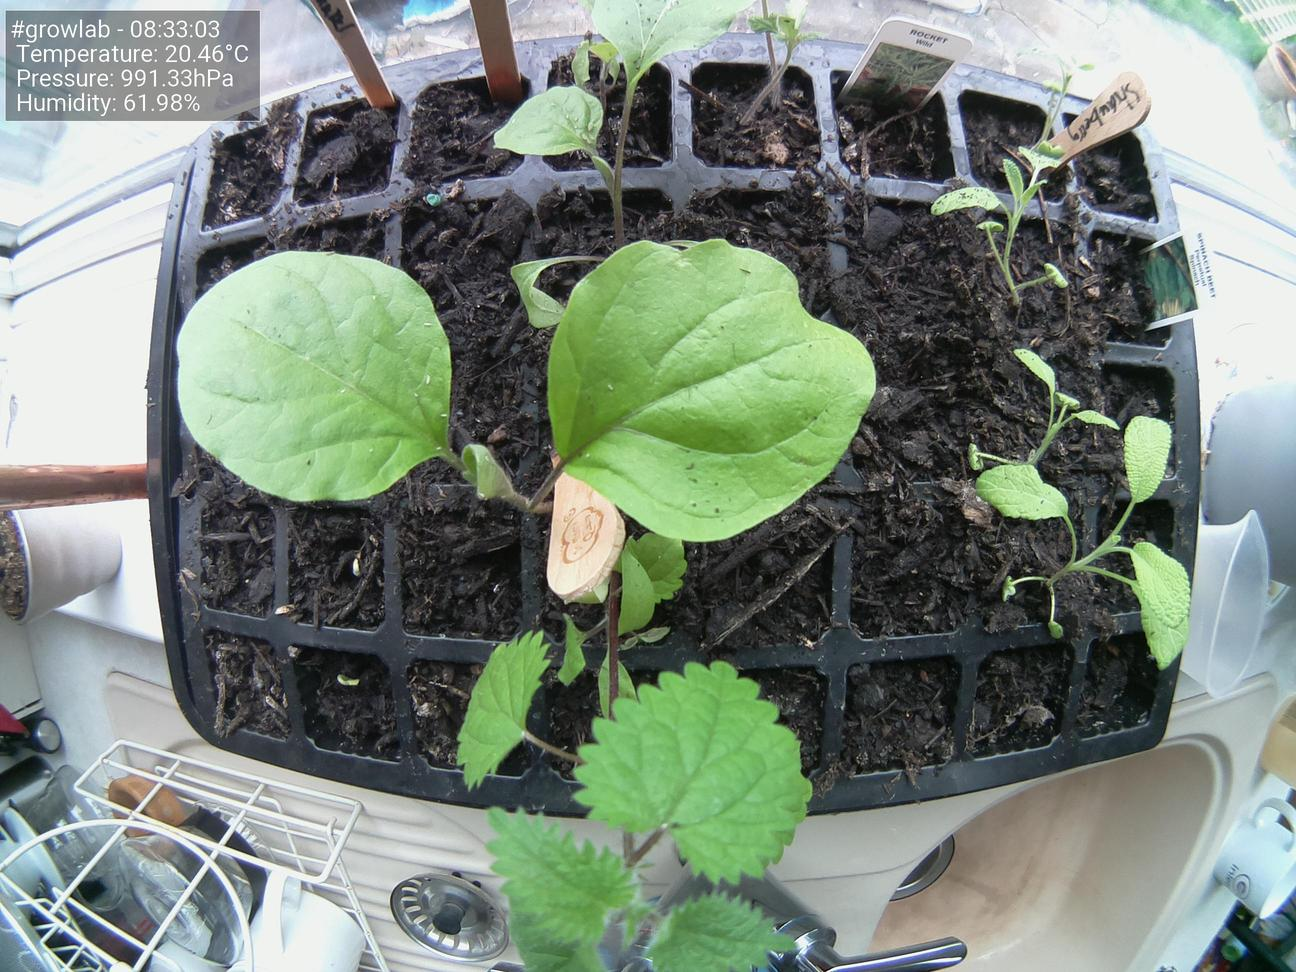
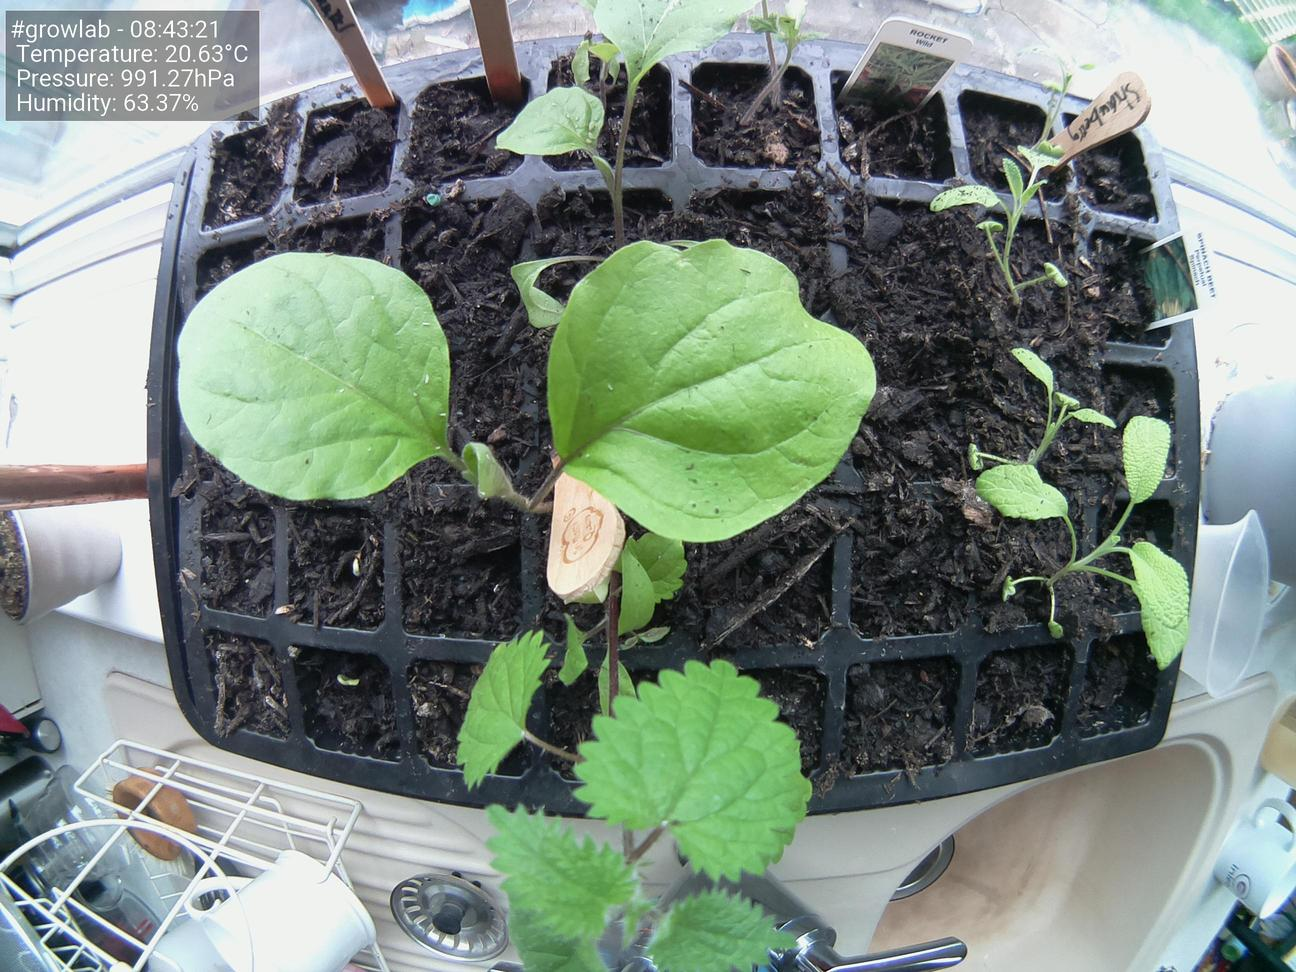
Update images at Fri 21 May 08:43:30 BST 2021

diff --git a/docs/index.html b/docs/index.html
@@ -47,19 +47,19 @@
                         <tbody>
                             <tr>
                                 <td>Time</td>
-                                <td>08:33:03</td>
+                                <td>08:43:21</td>
                             </tr>
                             <tr>
                                 <td>Temperature</td>
-                                <td>20.46°C</td>
+                                <td>20.63°C</td>
                             </tr>
                             <tr>
                                 <td>Humidity</td>
-                                <td>61.98%</td>
+                                <td>63.37%</td>
                             </tr>
                             <tr>
                                 <td>Pressure</td>
-                                <td>991.33hPa</td>
+                                <td>991.27hPa</td>
                             </tr>
                         </tbody>
                     </table>
@@ -67,7 +67,7 @@
 
                 <h5>Latest image</h5>
                 <div style="width: 85%;">
-                            <img class="figure-img img-fluid rounded" src="./preview.jpg?uid=1621582391.5257418">
+                            <img class="figure-img img-fluid rounded" src="./preview.jpg?uid=1621583009.9411523">
                 </div>
             </div>
         </div>
